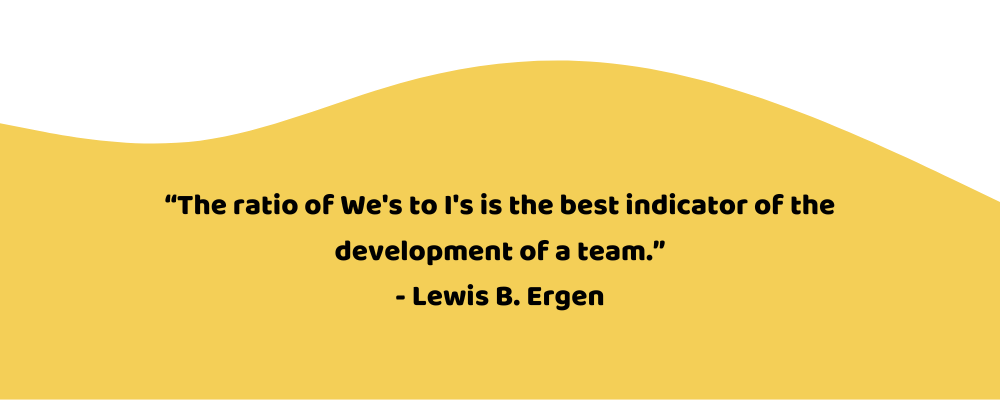
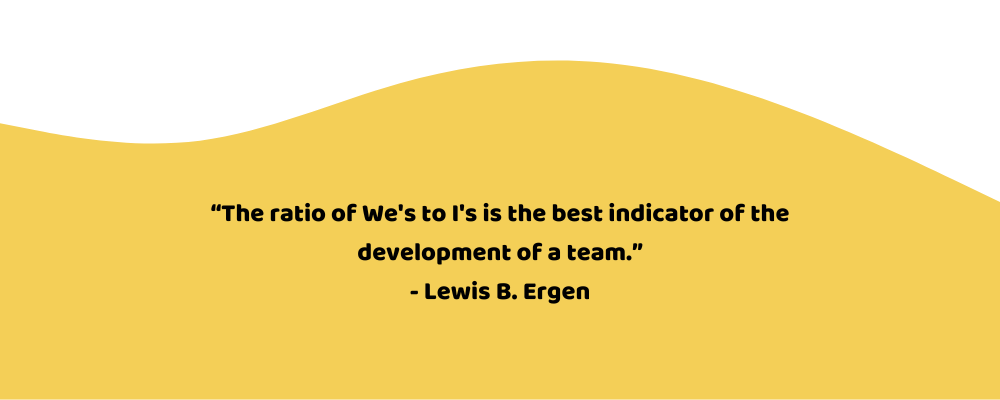
HHFC Trust

Changed region(s): [[0.155, 0.48, 0.837, 0.57], [0.31, 0.6, 0.682, 0.66], [0.403, 0.69, 0.62, 0.78]]

diff --git a/style.css b/style.css
@@ -2952,7 +2952,7 @@ input {
 
 
 .last-quote{
-    height: 58vh;
+    height: 65vh;
     width: 100vw;
     background-image: url("images/last-quote.png");
     background-size: cover;
@@ -2963,7 +2963,7 @@ input {
     .last-quote{
         position: relative;
         top: 250vh;
-        background-size: 140vw;
+        background-size: 150vw;
         background-repeat: no-repeat;
         background-position-x: -25vw
     }
